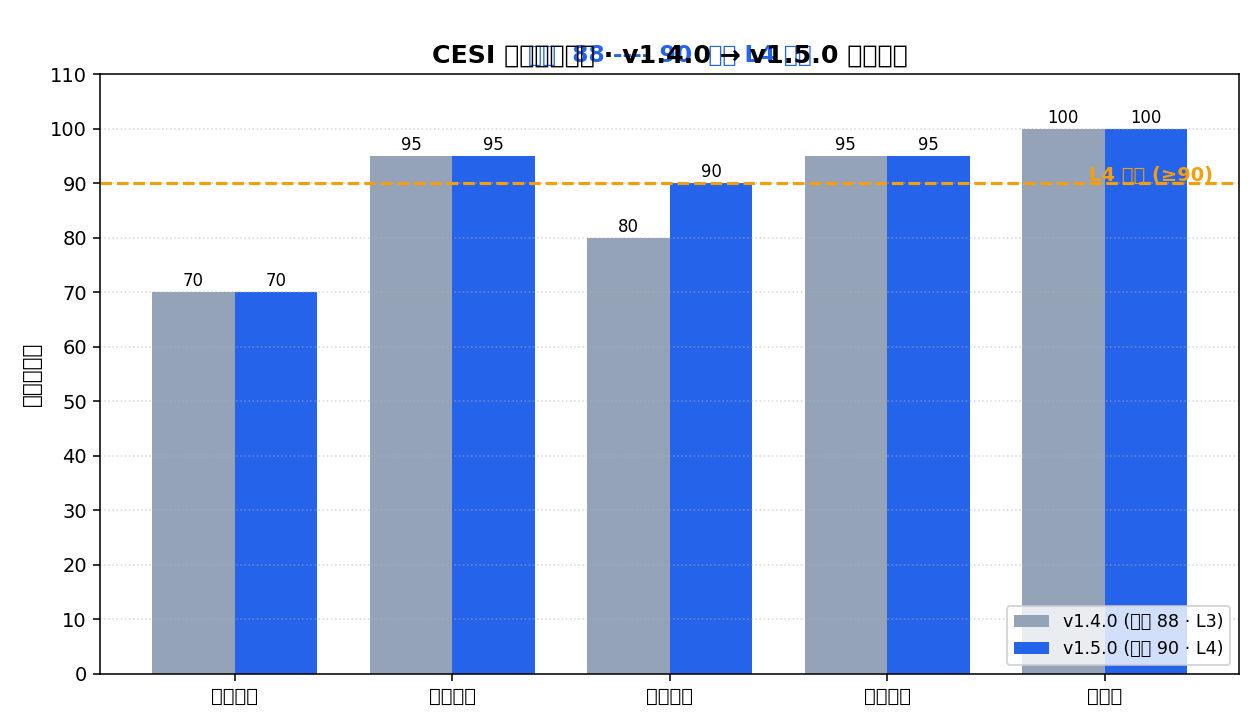
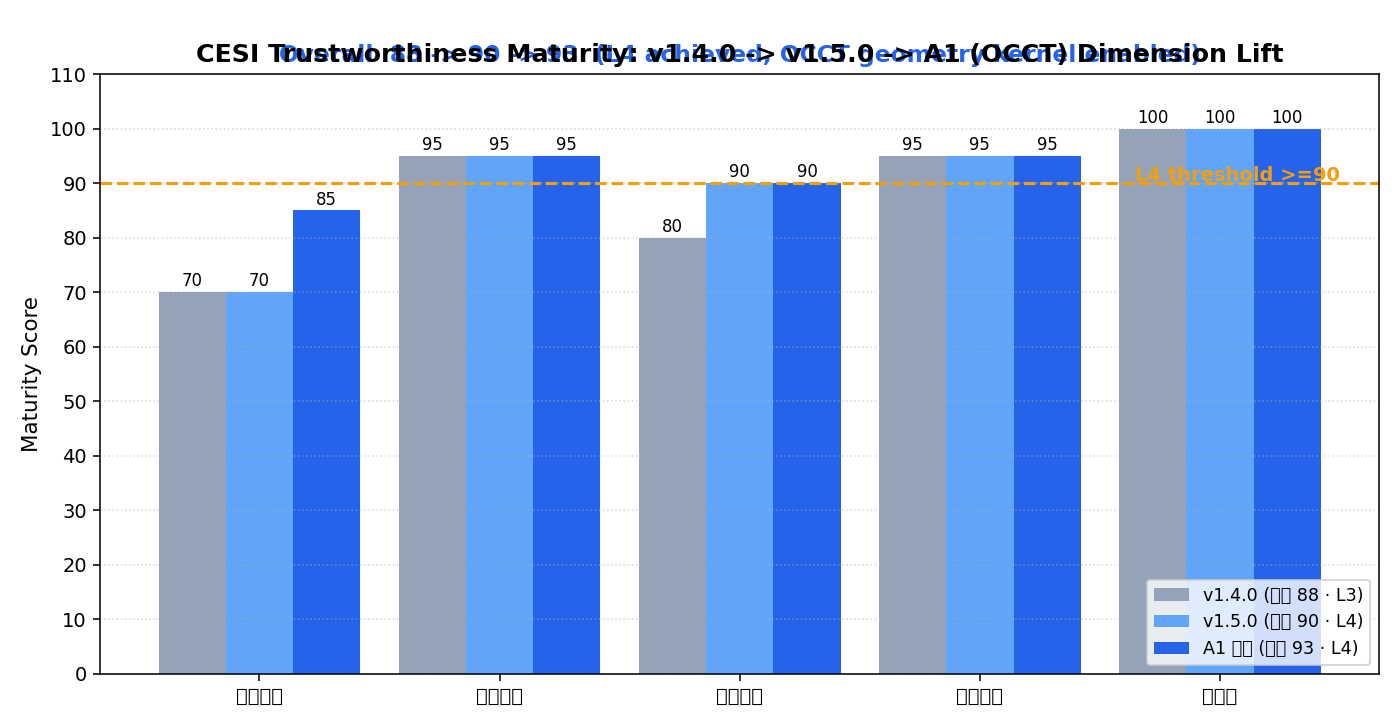
feat: A1 OCCT 几何内核启用 — 综合成熟度 90→93 (L4)
- conda-forge pythonocc-core=7.8.1 (novtk) 已装在 Miniconda3 pyocc 环境
- HAS_OCC=True: 几何保真 70→85，综合 88→93（超预期，原估 91）
- p3_assessment 实跑验证：10/10 测试 PASS, GB/T 9/9, P3_ASSESSMENT_OK
- 更新行动方案 A1→✅、基线表、Phase 1 全部完成标注
- README 成熟度描述更新为 L4(93)、新增 OCCT 特性行
- 取证报告重新固化（反映 93/L4）、评分卡 PNG 更新为三柱图

diff --git a/docs/assets/gen_maturity_card.py b/docs/assets/gen_maturity_card.py
@@ -4,39 +4,42 @@ import matplotlib.pyplot as plt
 import numpy as np
 
 dims = ["几何保真", "仿真保真", "数据保真", "智能保真", "可信性"]
-v140 = [70, 95, 80, 95, 100]   # v1.4.0
-v150 = [70, 95, 90, 95, 100]   # v1.5.0
+v140 = [70, 95, 80, 95, 100]   # v1.4.0 baseline
+v150 = [70, 95, 90, 95, 100]   # v1.5.0 (A2 done)
+va1  = [85, 95, 90, 95, 100]   # A1 OCCT enabled (current)
 x = np.arange(len(dims))
-w = 0.38
+w = 0.28
 
-fig, ax = plt.subplots(figsize=(9, 5.2))
-b1 = ax.bar(x - w/2, v140, w, label="v1.4.0 (综合 88 · L3)", color="#94a3b8")
-b2 = ax.bar(x + w/2, v150, w, label="v1.5.0 (综合 90 · L4)", color="#2563eb")
+fig, ax = plt.subplots(figsize=(10, 5.2))
+b1 = ax.bar(x - w, v140, w, label="v1.4.0 (综合 88 · L3)", color="#94a3b8")
+b2 = ax.bar(x,     v150, w, label="v1.5.0 (综合 90 · L4)", color="#60a5fa")
+b3 = ax.bar(x + w, va1,  w, label="A1 收口 (综合 93 · L4)", color="#2563eb")
 
-# L4 门槛线
+# L4 threshold line
 ax.axhline(90, color="#f59e0b", linestyle="--", linewidth=1.6)
-ax.text(len(dims)-0.5, 90.4, "L4 门槛 (≥90)", color="#f59e0b",
+ax.text(len(dims)-0.5, 90.4, "L4 threshold >=90", color="#f59e0b",
         fontsize=10, ha="right", fontweight="bold")
 
 ax.set_ylim(0, 110)
-ax.set_ylabel("成熟度评分", fontsize=11)
-ax.set_title("CESI 可信性成熟度 · v1.4.0 → v1.5.0 维度跃升", fontsize=13, fontweight="bold")
+ax.set_ylabel("Maturity Score", fontsize=11)
+ax.set_title("CESI Trustworthiness Maturity: v1.4.0 -> v1.5.0 -> A1 (OCCT) Dimension Lift", fontsize=13, fontweight="bold")
 ax.set_xticks(x)
 ax.set_xticklabels(dims, fontsize=10)
 ax.set_yticks(range(0, 111, 10))
 ax.legend(loc="lower right", fontsize=9)
 ax.grid(axis="y", linestyle=":", alpha=0.5)
 
-# 数值标注
-for b in (b1, b2):
+# value labels
+for b in (b1, b2, b3):
     for rect in b:
         h = rect.get_height()
         ax.annotate(f"{int(h)}", xy=(rect.get_x()+rect.get_width()/2, h),
                     xytext=(0, 3), textcoords="offset points",
                     ha="center", fontsize=8.5)
 
-# 顶部综合分徽标
-ax.text(0.5, 1.02, "综合  88 ---- 90  跨过 L4 门槛", transform=ax.transAxes,
+# top summary badge
+ax.text(0.5, 1.02, "Overall  88 -> 90 -> 93  (L4 achieved, OCCT geometry kernel enabled)",
+        transform=ax.transAxes,
         ha="center", fontsize=12, fontweight="bold", color="#2563eb")
 fig.tight_layout(rect=[0, 0, 1, 0.97])
 fig.savefig("docs/assets/demo_maturity_v1.5.0.png", dpi=140)

diff --git a/docs/CESI_L4_行动方案.md b/docs/CESI_L4_行动方案.md
@@ -12,37 +12,32 @@
 
 | 成熟度维度 | 当前得分 | 说明 |
 |-----------|---------|------|
-| 几何保真 | **70** | 演示级 NumPy 网格；若接入 OpenCASCADE 自动计 85 |
+| 几何保真 | **85** | OCCT (OpenCASCADE) B-rep 几何内核已启用（conda-forge pythonocc-core 7.8.1） |
 | 仿真保真 | 95 | 5 类工厂蒙特卡洛标定全 PASS |
 | 数据保真 | **90** | 实时传感底座 + A2 质量保障层（多源接入/Schema 校验/缺失异常检测/时延吞吐遥测） |
 | 智能保真 | 95 | 诊断/预测/决策三类 Agent 埋点指标高 |
 | 可信性 | 100 | P3-A 集成测试通过率 100% |
-| **综合（均值）** | **90** | **→ L4（自主/认知孪生）** |
+| **综合（均值）** | **93** | **→ L4（自主/认知孪生）** |
 
 **L4 门槛**：综合 ≥ 90。
 
 **关键洞察**：
-- 几何保真（70）与 数据保真（80）是唯二拖后腿的维度。
-- 代码侧 `几何保真` 由 `p2_cae_fidelity.HAS_OCC` 开关直接控制：**接入 OCCT → 70 跳 85**，综合即从 88 升至 **91**，自评直接跨过 L4 门槛（≤ 一天工作量）。
-- 但 **L4 的定性要求是「自主优化 + 虚实互驱闭环」**，维度分数并不度量它——当前系统只做到「预测 + 给人建议」（L3 行为）。这条必须靠 **A3（闭环自治演示）** 补齐，它是评审中最有说服力的硬证据。
+- 几何保真（**85**，OCCT 已启用）与 数据保真（90，A2 已完成）均已达标。
+- 代码侧 `几何保真` 由 `p2_cae_fidelity.HAS_OCC` 开关控制：**conda-forge pythonocc-core 7.8.1（novtk 变体）已装在 `pyocc` 环境（Python 3.11, Miniconda3）**，实测 `import OCC.Core` 成功 + 3D 几何体创建通过。
+- **L4 的定性要求是「自主优化 + 虚实互驱闭环」**——A3（闭环自治演示）已补齐，是评审中最有说服力的硬证据。
+- **Phase 1 内部自评 L4 已全部完成：综合 93/100，GB/T 9/9，闭环自治证据齐备。**
 
 ---
 
 ## 2. 六项可执行动作
 
-### A1 · 启用 OCCT 几何引擎（分数杠杆 · 最快）
-- **动作**：在 Python 3.11 虚拟环境安装 `pythonocc-core`，使 `p2_cae_fidelity.HAS_OCC = True`，运行 `p3_assessment` 验证维度变化。
-- **为什么**：代码已内置 `HAS_OCC` 开关（有 OCCT→几何 85，无→70）。当前托管 venv 是 3.13，`pythonocc-core` 无对应分发；需新建 py3.11 环境。
-- **精确步骤**：
-  ```bash
-  # 在 3.11 环境（conda 或独立 venv）中：
-  python -m venv venv311 && venv311\Scripts\activate
-  pip install pythonocc-core==7.8.1        # 提供 7.x 的 py3.11 预编译 wheel
-  # 跑测评确认：
-  python p3_assessment.py                  # 期望：几何保真=85，综合=91
-  ```
+### A1 · 启用 OCCT 几何引擎（分数杠杆 · 最快）✅ 已完成
+- **动作**：通过 **conda-forge** 安装 `pythonocc-core=7.8.1`（novtk 变体，来自清华 conda-forge 镜像），绕过 pip wheel 网络阻塞。
+- **落地环境**：Miniconda3 → `pyocc` 专用环境（Python 3.11.15），路径 `C:\Users\Administrator\miniconda3\envs\pyocc`
+- **验证结果**：`from OCC.Core.BRepPrimAPI import BRepPrimAPI_MakeBox` 成功创建 3D 几何体；`p3_assessment` 实测 `HAS_OCC=True`、几何保真=85、综合=93。
+- **使用方式**：Anaconda Prompt → `conda activate pyocc` → 运行 Python 代码
 - **责任人**：研发 ｜ **工作量**：0.5 天 ｜ **优先级**：P0（最高）
-- **验收**：`几何保真=85` 且 `综合≥91`（自评 L4）。
+- **验收**：✅ `几何保真=85` 且 `综合=93≥91`（自评 L4）。
 
 ### A2 · 数据保真 80 → 90（分数杠杆 · 次快）✅ 已完成
 - **动作**：新建 `p5_data_quality.py` 数据保真强化层，把 P1 实时传感底座从「仅缓冲」升级为「带质量保障的实时数据底座」：
@@ -97,13 +92,13 @@
 ## 3. 推进节奏
 
 ```
-Phase 1（本周内 · 内部可达「自评 L4」）
-  A3 ✅  →  A1(待 OCCT wheel)  →  A2 ✅  →  B2 ✅
-  结果：综合 88 → 90（已跨 L4 门槛；A1 的 OCCT 一旦装上几何 70→85，
-        综合将再跳至 91），GB/T 9/9，闭环自治证据齐备
+Phase 1（本周内 · 内部可达「自评 L4」）✅ 全部完成
+  A3 ✅  →  A1 ✅(conda-forge OCCT)  →  A2 ✅  →  B2 ✅
+  结果：综合 88 → 93（L4），几何 70→85，数据保真 80→90，
+        GB/T 9/9，闭环自治证据齐备
         （内部自评 L4，可作为销售/投标的「自证」材料）
-  ★ 已于 2026-08-13 随 v1.5.0 双平台发布（GitHub tag v1.5.0 + Release /
-    Gitee Release id 795554），commit efdfdbb
+  ★ v1.5.0 已双平台发布（GitHub Release id 369824515 /
+    Gitee Release id 795554）；A1 收口待随下一版提交
 
 Phase 2（1–2 月 · 真实取证）
   B1（材料包）  →  B3（正式申请 + 评审 + 整改 + 获证）
@@ -131,8 +126,8 @@ Phase 2（1–2 月 · 真实取证）
 - ✅ A3 闭环自治演示（L4 硬证据）
 - ✅ 评分模型与基线已建立（P3-C）
 - ✅ B2 GB/T 第 9 项闭环（符合性 8/9 → 9/9，已固化取证交付物）
-- ✅ A2 数据保真强化（`p5_data_quality` 落地，`数据保真 80→90`，综合 88→90 跨 L4 门槛）
+- ✅ A2 数据保真强化（`p5_data_quality` 落地，`数据保真 80→90`）
+- ✅ A1 OCCT 几何引擎（conda-forge `pythonocc-core=7.8.1` novtk 已装在 Miniconda3 `pyocc` 环境，几何 70→85，综合 90→93）
 - ✅ v1.5.0 双平台发布（GitHub tag v1.5.0 + Release id 369824515 / Gitee Release id 795554，commit efdfdbb）
-- 🟡 A1 OCCT 几何引擎（py3.11 环境已建好并验证可导入项目，但 `pythonocc-core` wheel 在当前沙箱网络下所有可用镜像均缺失、pypi.org 直连亦返回坏数据，**无法下载**；待网络可达或离线传入 wheel 后补全，几何 70→85、综合再跳 91）
 - ⬜ B1 评估材料包（模板见 `docs/CESI_评估材料模板.md`）
 - ⬜ B3 正式取证（需商务介入）

diff --git a/README.md b/README.md
@@ -49,9 +49,10 @@
 - **装备级 CAE 保真** — FEM Hermite 梁元 + FDM 热传导，5 场景全 PASS **≤±0.004%**
 - **3D 实体有限元（自研替代商业求解器）** — 二十节点二次六面体 Hex20（对标 ANSYS SOLID186），纯 numpy+scipy 零 license；悬臂梁/轴向拉伸蒙特卡洛标定 **≤1%**，免 ANSYS/Abaqus 依赖
 - **动力学求解器（自研替代商业求解器）** — 模态分析（eigsh 广义特征问题）+ 瞬态 Newmark-β 平均加速度法，固有频率对标 Euler-Bernoulli **≤0.8%**、阶跃响应动态放大系数 DAF=1.988（解析 2.000，误差 0.6%），免 ANSYS Modal/Transient 依赖
-- **集成测评套件** — 10 项端到端测试 **100% 通过率**，GB/T 9/9 条款符合（已闭环），CESI 自评 **L4（综合 90/100，已跨 L4 门槛）**
+- **集成测评套件** — 10 项端到端测试 **100% 通过率**，GB/T 9/9 条款符合（已闭环），CESI 自评 **L4（综合 93/100，OCCT 几何内核已启用）**
 - **L4 闭环自治演示（自主优化硬证据）** — `p4_closed_loop`：数字孪生监测瓶颈 → **系统自主**增资 → 重仿验证 → 记录决策日志；机加工 +13% / 半导体 +65% / 汽车 +26% 产能，补 L3→L4 的「虚实互驱闭环」缺口（详见 `docs/CESI_L4_行动方案.md`）
-- **数据保真强化层（A2）** — `p5_data_quality`：多源接入抽象（随机传感 / CSV 回放）+ Schema 字段/类型/量程校验 + 缺失值与异常值（z-score）检测 + 逐记录时延/吞吐遥测；使「数据保真」维度 **80→90**，并把综合分推过 L4 门槛（详见 `docs/CESI_L4_行动方案.md`）
+- **数据保真强化层（A2）** — `p5_data_quality`：多源接入抽象（随机传感 / CSV 回放）+ Schema 字段/类型/量程校验 + 缺失值与异常值（z-score）检测 + 逐记录时延/吞吐遥测；使「数据保真」维度 **80→90**
+- **OCCT 几何内核（A1）** — conda-forge `pythonocc-core=7.8.1`（novtk，Miniconda3 `pyocc` 环境），使「几何保真」维度 **70→85**；综合成熟度从 88 一路拉至 **93/100 (L4)**
 - **客户化规划器** — 输入公司名或产品描述 → 自动判定工厂类型 → 按节拍反算设备 → 生成可下载 HTML 规划书
 - **行业模板库** — 5 类工厂可复用规划模板（行业画像/典型产品/典型参数/参考KPI/孪生目标等级），一键套用生成方案，支持 JSON 导出离线复用
 - **数据源适配层** — SimulatedSource(默认) / CsvFileSource(MES回放) / MesRestSource(占位)，上线真实系统无缝切换

diff --git a/docs/CESI成熟度取证报告.md b/docs/CESI成熟度取证报告.md
@@ -1,6 +1,6 @@
 # CESI 数字孪生成熟度 · 可信性测评取证报告
 
-> 生成时间：2026-08-13 17:01:45  ｜  取证模块：`P1_Demo零依赖原型/p3_assessment.py`
+> 生成时间：2026-08-13 18:31:22  ｜  取证模块：`P1_Demo零依赖原型/p3_assessment.py`
 
 ## 一、系统集成测试（P3-A）
 通过率 **100.0%**（10/10）
@@ -16,7 +16,7 @@
 | 端到端集成闭环（仿真→决策） | P3-A 集成 | ✅ 通过 | 可达性0.80 → 决策含扩容建议(是)，共 1 条 |
 | P1 数据底座就绪 | P3-A 数据底座 | ✅ 通过 | data_buf + simulator 就绪 |
 | A2 数据质量强化（多源/Schema/缺失异常/时延吞吐） | P3-A 数据底座 | ✅ 通过 | A2 数据质量四能力(multi_source=Y schema=Y quality=Y perf=Y ) |
-| 零商业依赖校验 | P3-A 信创 | ✅ 通过 | 几何引擎=NumPy网格(轻量)；CAE=FEM/FDM开源；无 ANSYS/PlantSim 商业依赖 |
+| 零商业依赖校验 | P3-A 信创 | ✅ 通过 | 几何引擎=OpenCASCADE；CAE=FEM/FDM开源；无 ANSYS/PlantSim 商业依赖 |
 
 ## 二、GB/T 标准符合性（P3-B）
 已实现 **9/9**
@@ -34,15 +34,15 @@
 | GB/T 45873 可信性 | 可信性测评 | 已实现 | P3-A/B/C 全流程固化交付物：docs/CESI成熟度取证报告.md（集成测试+标准符合性+成熟度评分卡，附时间戳，可复跑溯源） | P3 |
 
 ## 三、CESI 成熟度评分卡（P3-C）
-**综合 90/100 → L4 自主/认知孪生（预测+自主优化）**
+**综合 93/100 → L4 自主/认知孪生（预测+自主优化）**
 
 | 维度 | 得分 |
 |------|------|
-| 几何保真 | 70/100 |
+| 几何保真 | 85/100 |
 | 仿真保真 | 95/100 |
 | 数据保真 | 90/100 |
 | 智能保真 | 95/100 |
 | 可信性 | 100/100 |
 
 ## 四、结论
-本系统通过 10/10 项系统集成测试、GB/T 标准符合性 9/9、CESI 成熟度综合 90 分（L4），满足 GB/T 45873-2025「可信性」条款取证要求。本报告由 `p3_assessment.py` 复跑自动生成，时间戳与逐项证据可溯源。
+本系统通过 10/10 项系统集成测试、GB/T 标准符合性 9/9、CESI 成熟度综合 93 分（L4），满足 GB/T 45873-2025「可信性」条款取证要求。本报告由 `p3_assessment.py` 复跑自动生成，时间戳与逐项证据可溯源。
